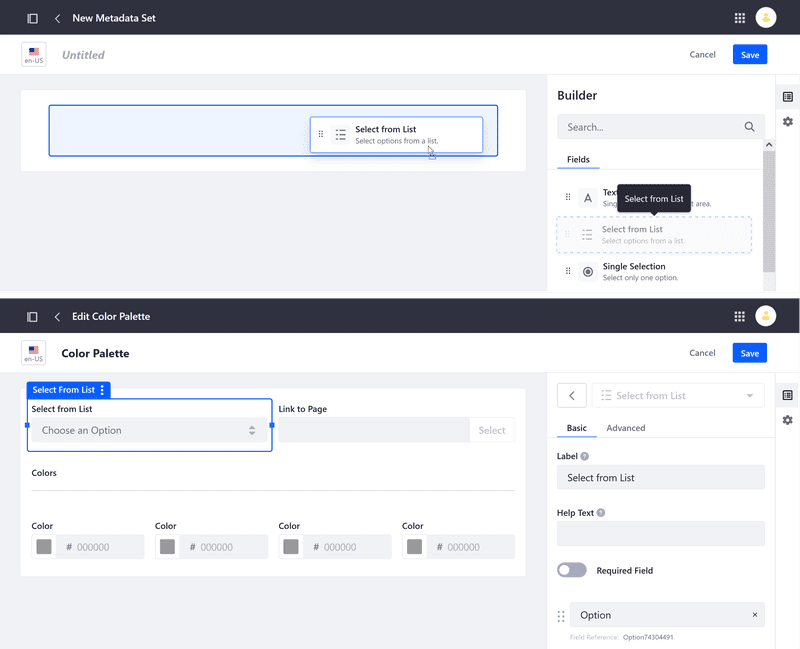
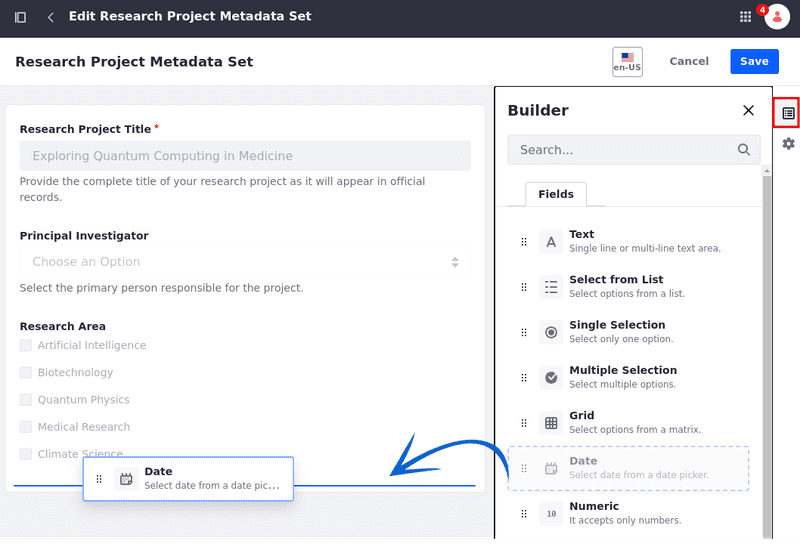
LRDOCS-4162 defining-metadata-sets.md adjusted to reflect content from previous version

diff --git a/docs/dxp/latest/en/content-authoring-and-management/documents-and-media/uploading-and-managing/managing-metadata/defining-metadata-sets.md b/docs/dxp/latest/en/content-authoring-and-management/documents-and-media/uploading-and-managing/managing-metadata/defining-metadata-sets.md
@@ -36,13 +36,46 @@ To define a new Metadata Set,
 
    Each field is highly configurable, with Basic and Advanced options. If desired, you can create field groups by dragging and dropping fields on top of one another. These groups can also be configured.
 
-   ![Add fields in the Builder tab and configure each field.](./defining-metadata-sets/images/03.png)
+   ![Add fields from the Builder tab and configure them.](./defining-metadata-sets/images/03.png)
 
 1. (Optional) Click on the *Properties* tab, and enter a *description*.
 
 1. Click on *Save*.
 
+The following fields are available in the Builder tab on the right:
+
+| Field              | Description                                                         |
+|:-------------------|:--------------------------------------------------------------------|
+| Text               | Enter a single line/multiple lines of text.                         |
+| Select from list   | Select an option from a drop-down list.                             |
+| Single Selection   | Select an option from a list using radio buttons.                   |
+| Multiple Selection | Select one or multiple options using checkboxes.                    |
+| Grid               | Select options from a matrix.                                       |
+| Date               | Enter a date.                                                       |
+| Numeric            | Enter a number. You can set the numeric type as integer or decimal. |
+| Boolean            | Check the check box.                                                |
+| Image              | Send an image file.                                                 |
+| Rich Text          | Use a WYSIWYG editor to create rich text content.                   |
+| Upload             | Send documents and media files.                                     |
+| Color              | Specify a color.                                                    |
+| Web Content        | Select a Web Content article.                                       |
+| Geolocation        | Specify a location to associate with the document.                  |
+| Link to Page       | Link to another page in the same site.                              |
+| Separator          | Add a separator to organize the content.                            |
+
 Once saved, the new Metadata Set can be accessed and selected when creating or editing Document Types. See [Defining Document Types](./defining-document-types.md) or more information.
+
+## Editing Metadata Sets
+
+You can edit your fields to reflect their intended metadata. For example, a text field's default label is *Text*. If you want to use the text field as a title, for instance, then you should change the field's label to *Title*. Besides the Label field, you can also configure the default values, variable names, mouse-over tips, widths, and other settings. Some fields have a *Required* setting for specifying whether users must populate the field. If a field's *Repeatable* setting is *Yes*, users can add multiple consecutive instances of the field to the document's metadata.
+
+1. Click on the field on the editor. This automatically opens the *Builder* tab on the right.
+
+1. Edit the fields and enter new values.
+
+   ![Edit a field's values to reflect their intended metadata.](./defining-metadata-sets/images/04.png)
+
+1. Click *Save* when finished.
 
 ## Related Topics
 

diff --git a/docs/dxp/latest/en/content-authoring-and-management/documents-and-media/uploading-and-managing/managing-metadata/defining-metadata-sets/defining-metadata-sets-for-liferay-73-and-earlier-versions.md b/docs/dxp/latest/en/content-authoring-and-management/documents-and-media/uploading-and-managing/managing-metadata/defining-metadata-sets/defining-metadata-sets-for-liferay-73-and-earlier-versions.md
@@ -59,7 +59,7 @@ The following metadata fields are available:
 | Text Box            | Enter multiple lines of text or separate paragraphs.                                                        |
 | Web Content         | Select a Web Content article.                                                                               |
 
-### Editing Metadata Sets
+## Editing Metadata Sets
 
 You can edit your fields to reflect their intended metadata. For example, a text field's default label is *Text*. If you want to use the text field as a title, for instance, then you should change the field's label to *Title*. Besides the Label field, you can also configure the default values, variable names, mouse-over tips, widths, and other settings. Some fields have a *Required* setting for specifying whether users must populate the field. If a field's *Repeatable* setting is *Yes*, users can add multiple consecutive instances of the field to the document's metadata.
 
@@ -71,7 +71,7 @@ You can edit your fields to reflect their intended metadata. For example, a text
 
 1. Click *Save* when finished.
 
-### Translating a Metadata Set
+## Translating a Metadata Set
 
 You can translate each of a metadata set's field values to any supported locales.
 
